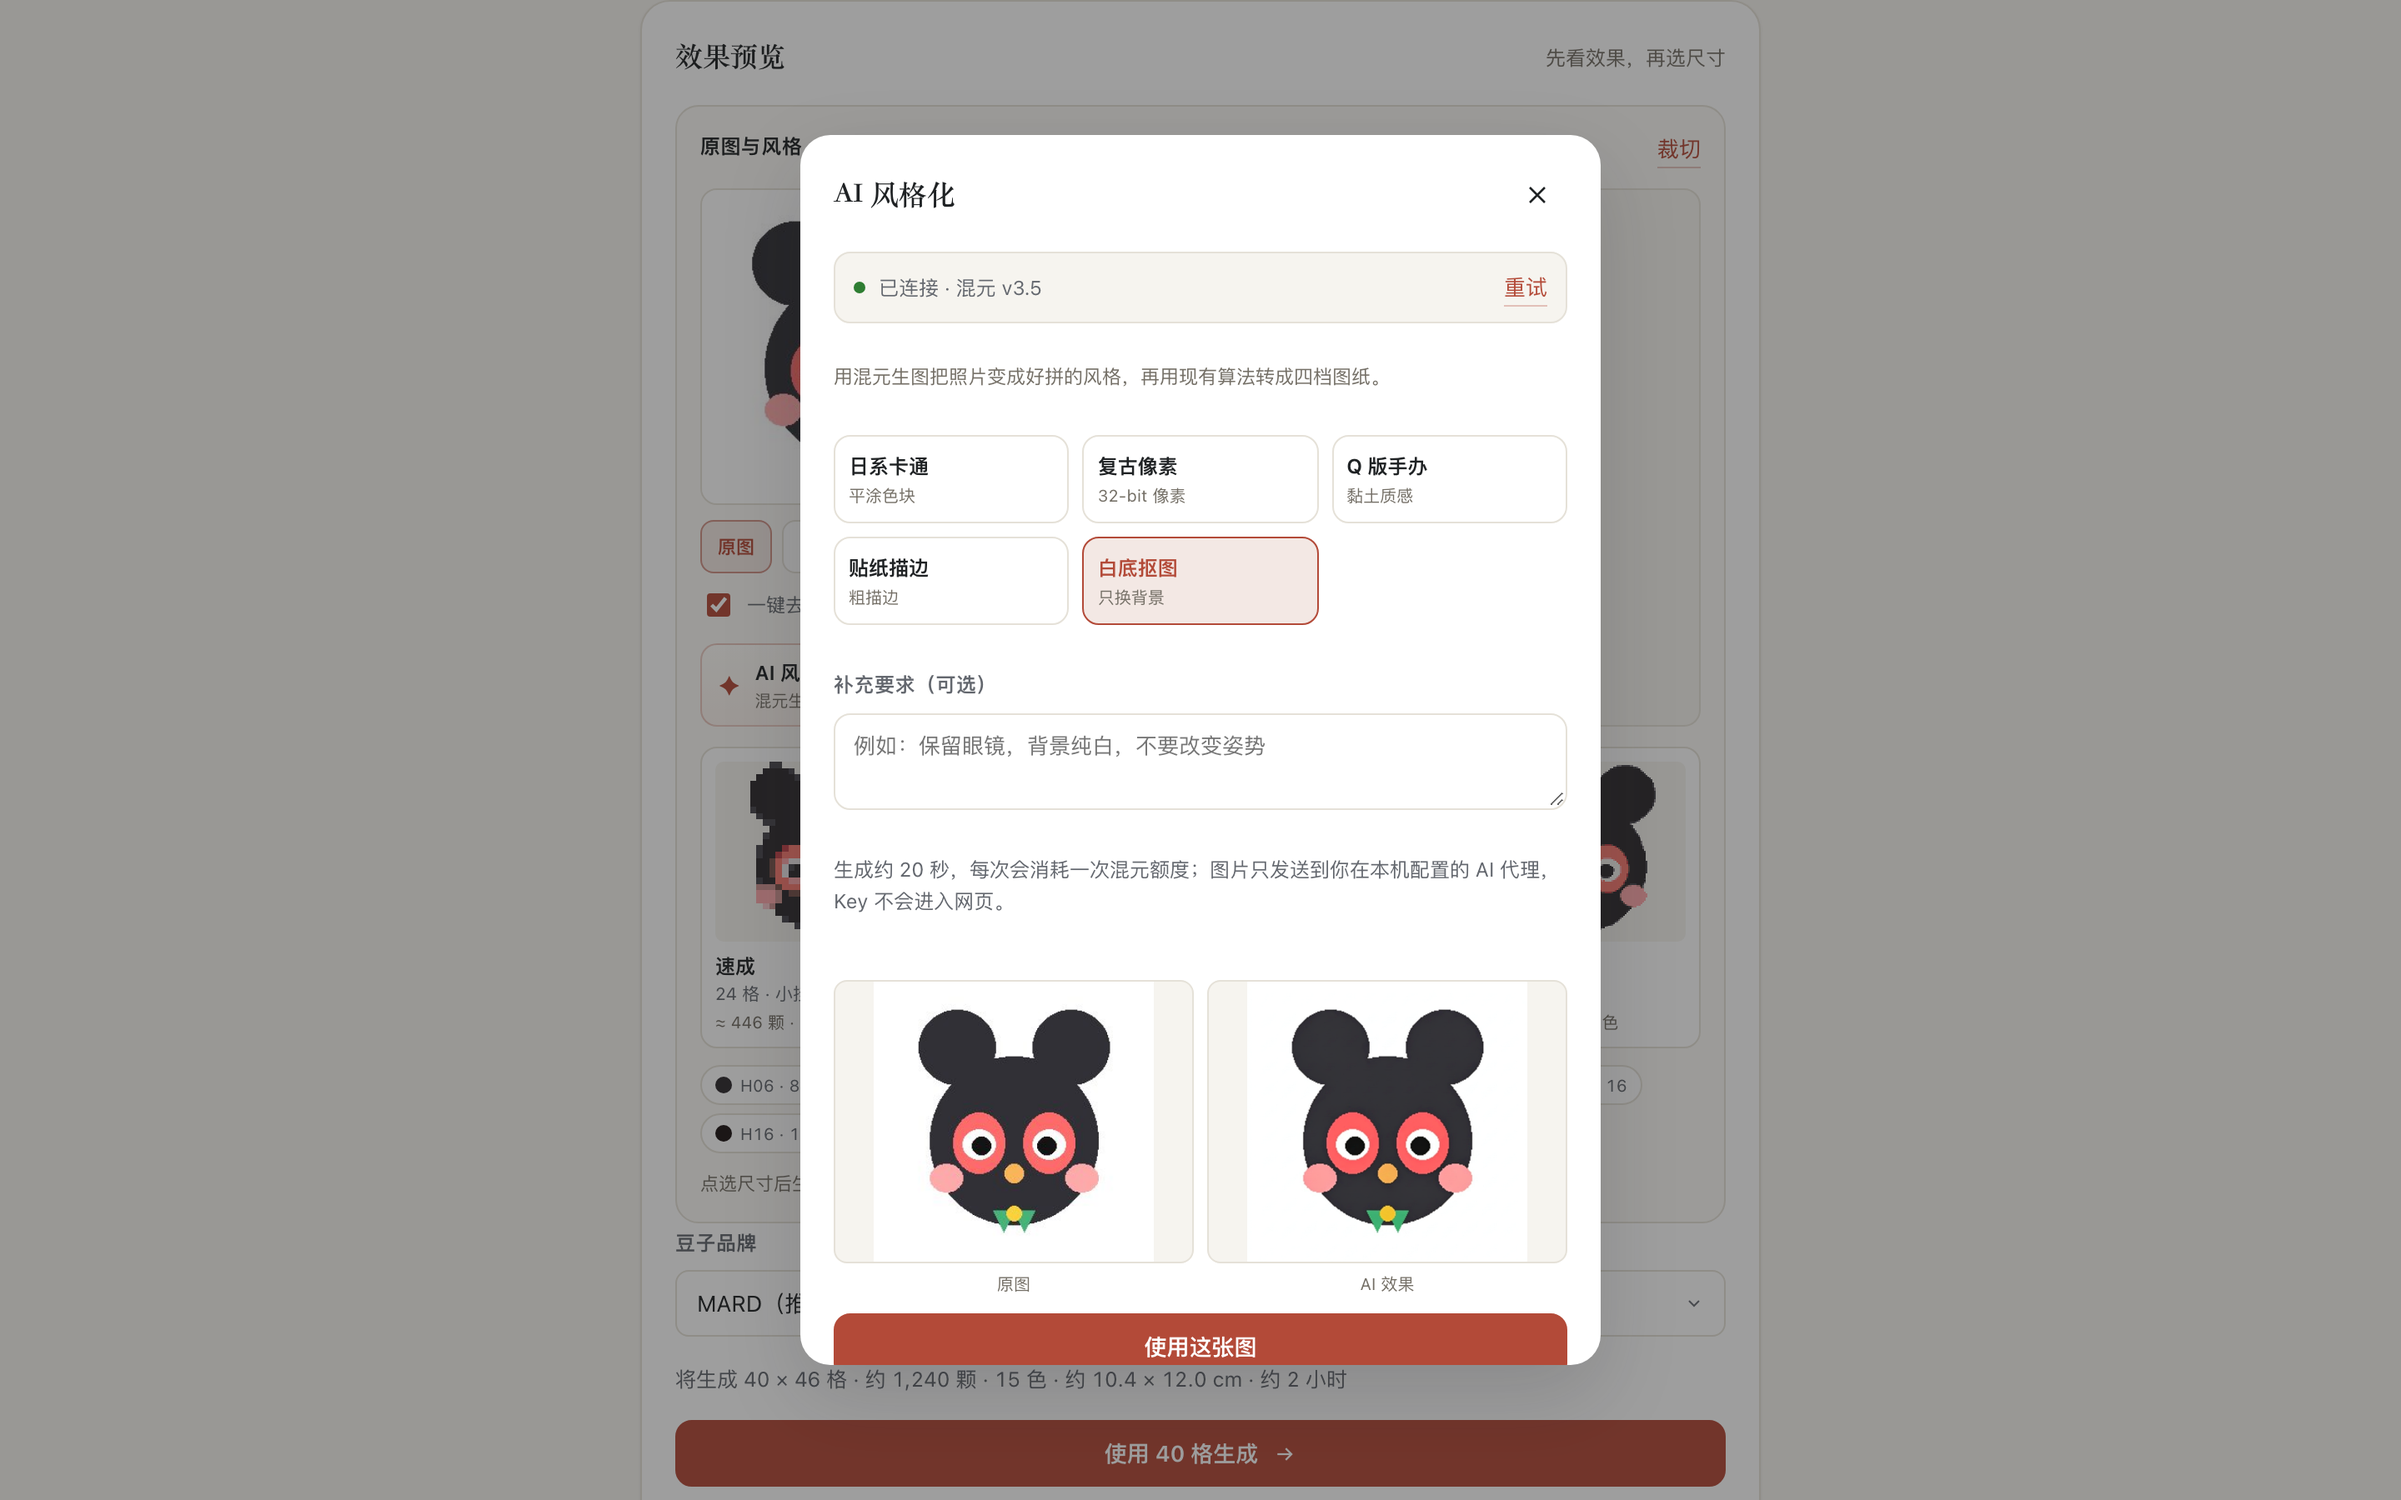
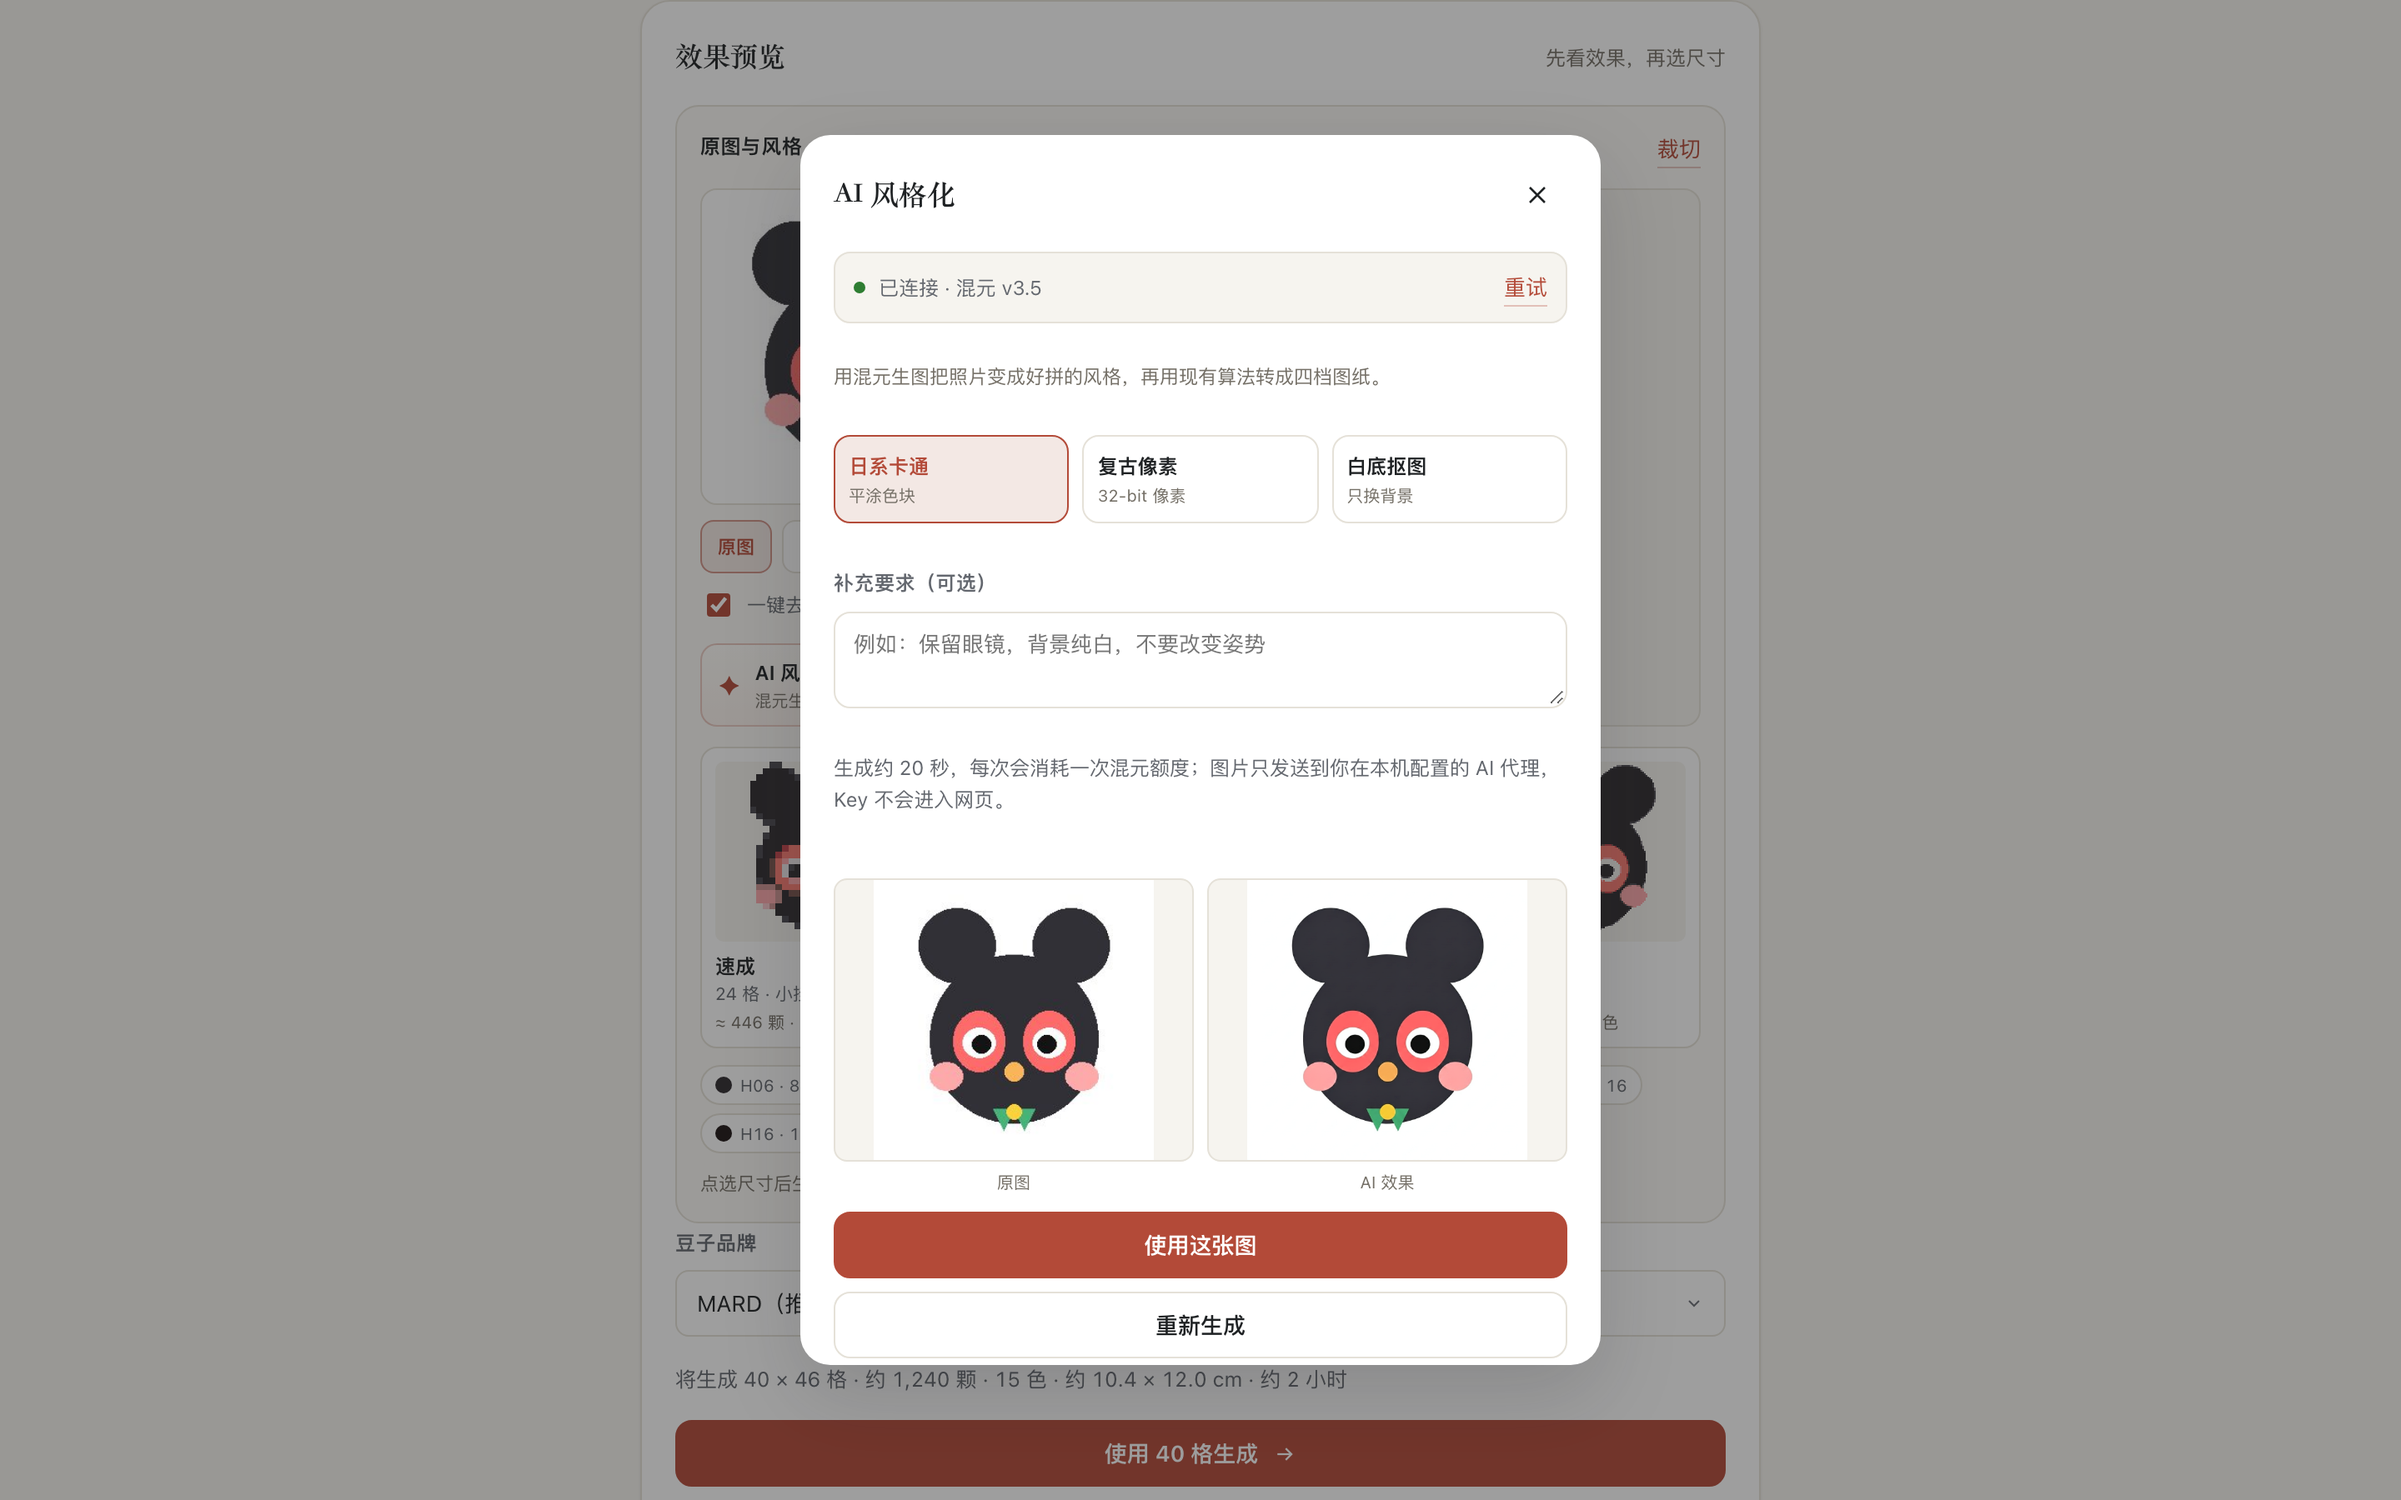
refine: AI 预设收敛为 3 个（卡通/像素/白底），prompt 增加拼豆优化

Changed region(s): [[0.3438, 0.28, 0.6562, 0.9333], [0.5625, 0.28, 0.5938, 0.3422]]

diff --git a/js/app.js b/js/app.js
@@ -447,8 +447,6 @@
   const AI_PRESETS = [
     { id: 'cartoon', label: '日系卡通', desc: '平涂色块' },
     { id: 'pixel', label: '复古像素', desc: '32-bit 像素' },
-    { id: 'figure', label: 'Q 版手办', desc: '黏土质感' },
-    { id: 'sticker', label: '贴纸描边', desc: '粗描边' },
     { id: 'cutout', label: '白底抠图', desc: '只换背景' },
   ];
   let aiBase = '';

diff --git a/README.md b/README.md
@@ -20,7 +20,7 @@
 - **效果预览**：上传后自动生成 24 / 40 / 64 / 96 四档图纸缩略图，先看效果再选尺寸
 - **图片裁切**：1:1 / 4:5 / 3:4 / 16:9 / 原图，拖动、缩放后重新生成
 - **画面风格**：原图 / 卡通 / 像素 / 剪影（仅图片来源）
-- **AI 风格化（可选）**：接入腾讯混元生图，日系卡通 / 复古像素 / Q 版手办 / 贴纸 / 白底抠图；Key 只留在本地代理
+- **AI 风格化（可选）**：接入腾讯混元生图，日系卡通 / 复古像素 / 白底抠图；Key 只留在本地代理
 - **一键去背景**：白底 / 透明背景自动留空，边缘去灰
 - **完整交付**：PNG 图纸（含标题、坐标、色号、图例、统计）、100% 缩放打印、购物清单 CSV
 - **分享传播**：分享卡（1080×1350，带二维码）+ 可还原图纸的分享链接 + 一键复制小红书文案
